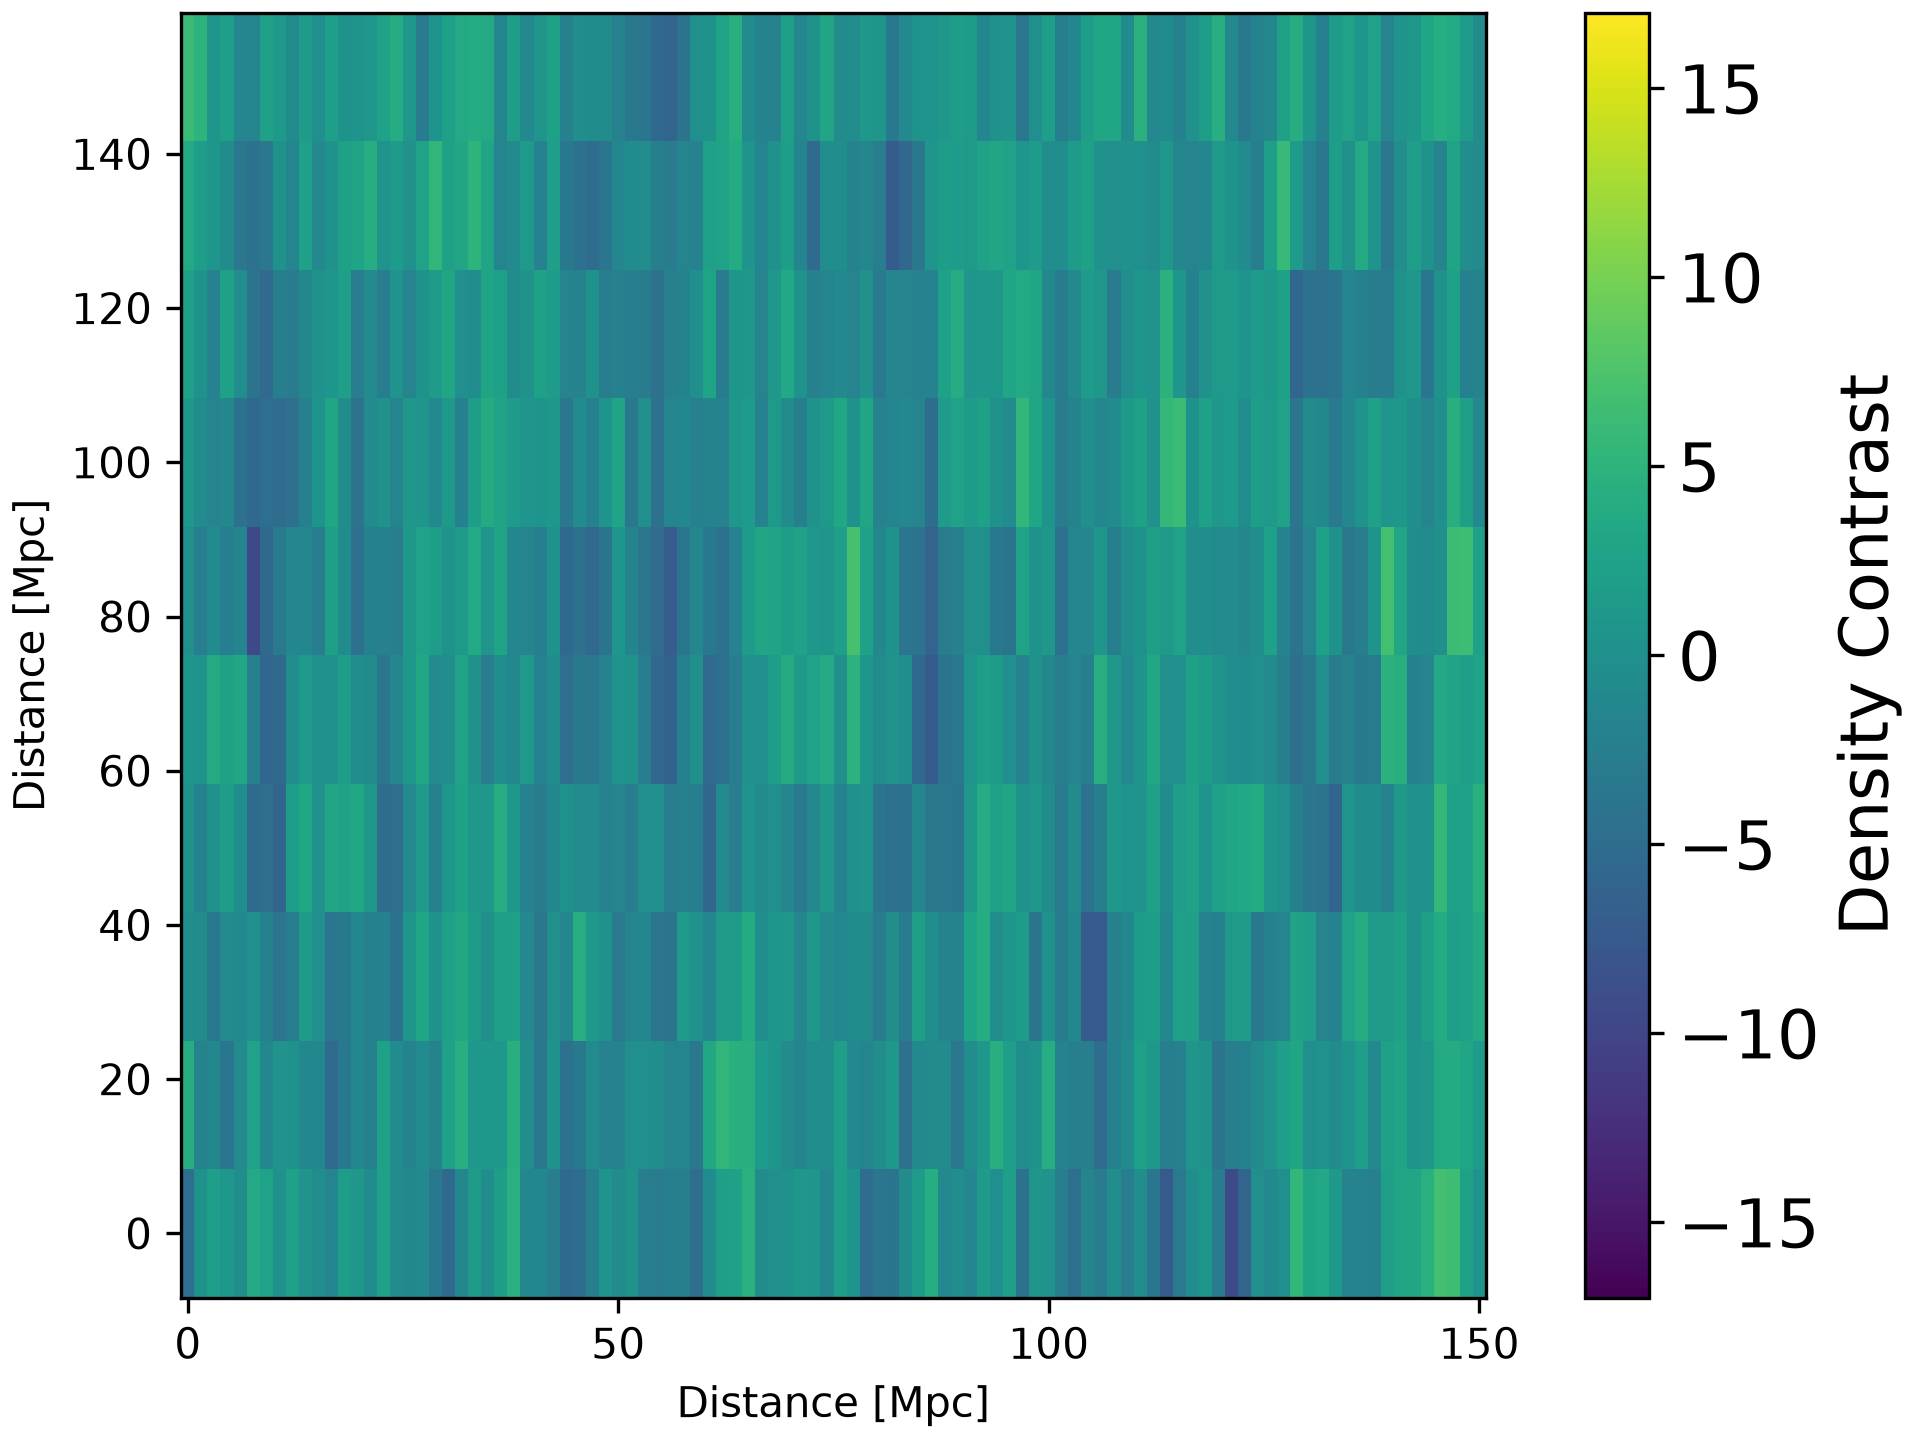
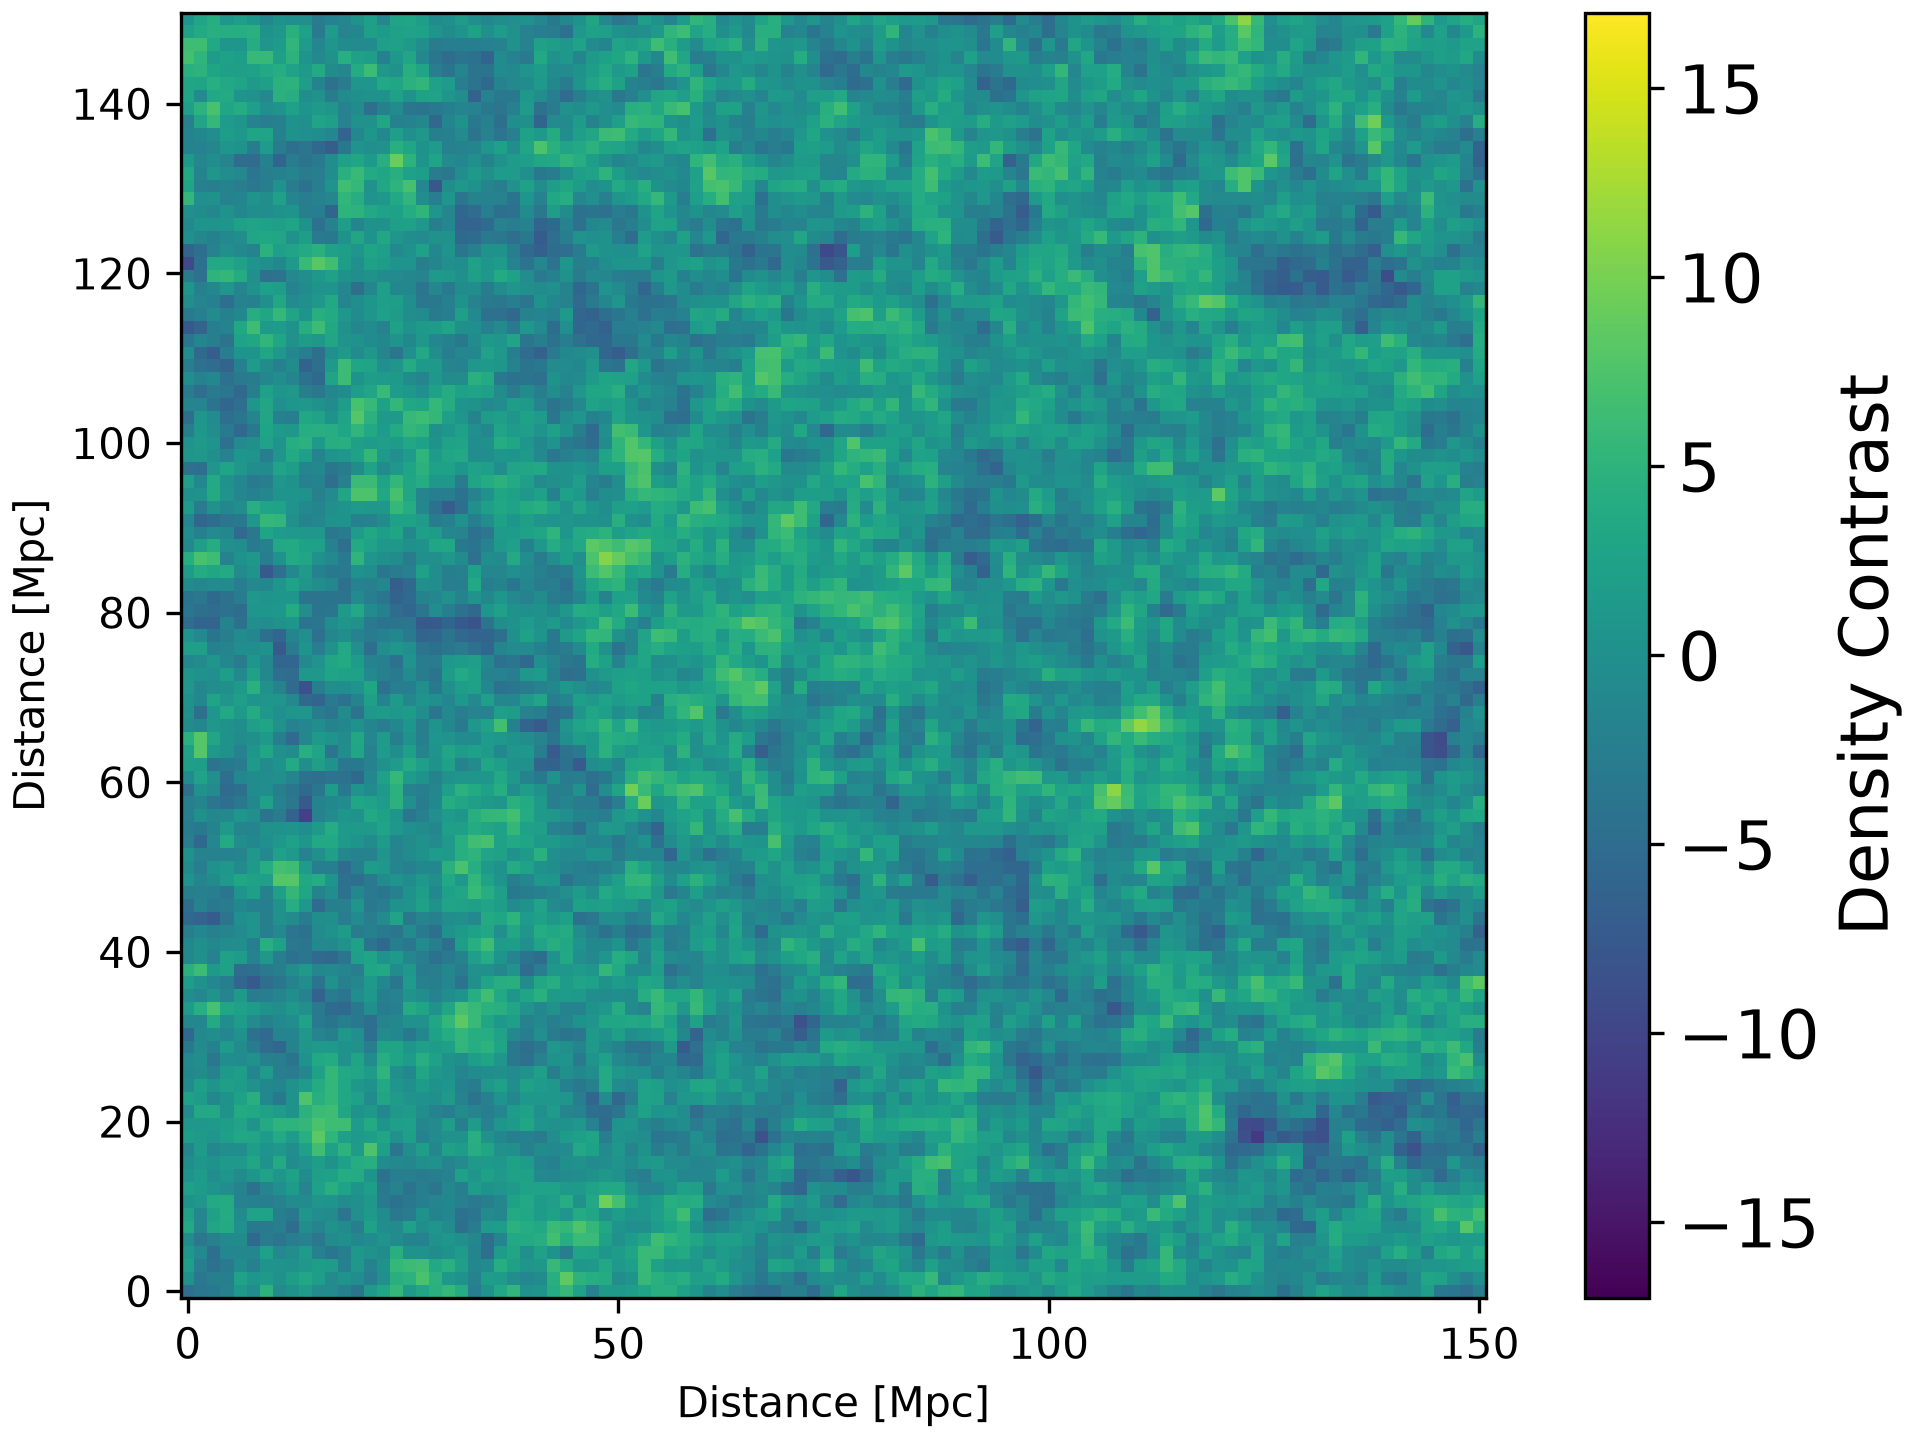
doc: plots

Changed region(s): [[0.0312, 0.0, 0.7812, 0.9062]]

diff --git a/postprocess/plot_ics.py b/postprocess/plot_ics.py
@@ -34,7 +34,7 @@ import py21cmfast as p21c
 from py21cmfast.io.caching import RunCache
 from astropy import units as un
 import matplotlib.pyplot as plt
-from tuesday.core import coeval2slice_x, plot_coeval_slice
+from tuesday.core import coeval2slice_z, plot_coeval_slice
 
 if args.test:
     logger.info(f"TEST MODE: HII_DIM={settings.TEST_HII_DIM}")
@@ -53,10 +53,9 @@ L = inputs.simulation_options._LOWRES_CELL_SIZE_MPC * HII_DIM * un.Mpc
 print(f"HII_DIM: {HII_DIM}, L: {L}")
 box = initial_conditions.get("lowres_density") * un.dimensionless_unscaled
 if args.zoom:
-    box = box[:100, :100, :10]
+    box = box[:100, :100, :1]
 else:
-    box = box[:,:,:10]
-
+    box = box[...,:1]
 if args.vel:
     v_x = initial_conditions.get("lowres_vx")[0, ...] * un.m / un.s
     v_y = initial_conditions.get("lowres_vy")[0, ...] * un.m / un.s
@@ -80,7 +79,7 @@ fig, ax = plt.subplots(1, 1, layout="constrained")
 ax = plot_coeval_slice(
     box,
     L / HII_DIM * box.shape[0],
-    transform2slice=coeval2slice_x(idx=0),
+    transform2slice=coeval2slice_z(idx=0),
     ax=ax, vmin=-17, vmax=17,
     v_x=v_x,
     v_y=v_y,

diff --git a/postprocess/plot_pf.py b/postprocess/plot_pf.py
@@ -38,7 +38,7 @@ import py21cmfast as p21c
 from py21cmfast.io.caching import RunCache
 from astropy import units as un
 import matplotlib.pyplot as plt
-from tuesday.core import coeval2slice_x, plot_coeval_slice
+from tuesday.core import coeval2slice_z, plot_coeval_slice
 
 if args.test:
     logger.info(f"TEST MODE: HII_DIM={settings.TEST_HII_DIM}")
@@ -63,9 +63,9 @@ L = inputs.simulation_options._LOWRES_CELL_SIZE_MPC * HII_DIM * un.Mpc
 
 box = perturbed_field.get("density") * un.dimensionless_unscaled
 if args.zoom:
-    box = box[:100, :100, :10]
+    box = box[:100, :100, :1]
 else:
-    box = box[:,:,:10]
+    box = box[:,:,:1]
 if args.vel:
     v_x = perturbed_field.get("velocity_x")[0, ...] * un.m / un.s
     v_y = perturbed_field.get("velocity_y")[0, ...] * un.m / un.s
@@ -89,7 +89,7 @@ fig, ax = plt.subplots(1, 1, layout="constrained")
 ax = plot_coeval_slice(
     box,
     L / HII_DIM * box.shape[0],
-    transform2slice=coeval2slice_x(idx=0),
+    transform2slice=coeval2slice_z(idx=0),
     ax=ax, vmin=-0.5, vmax=0.5,
     v_x=v_x,
     v_y=v_y,
